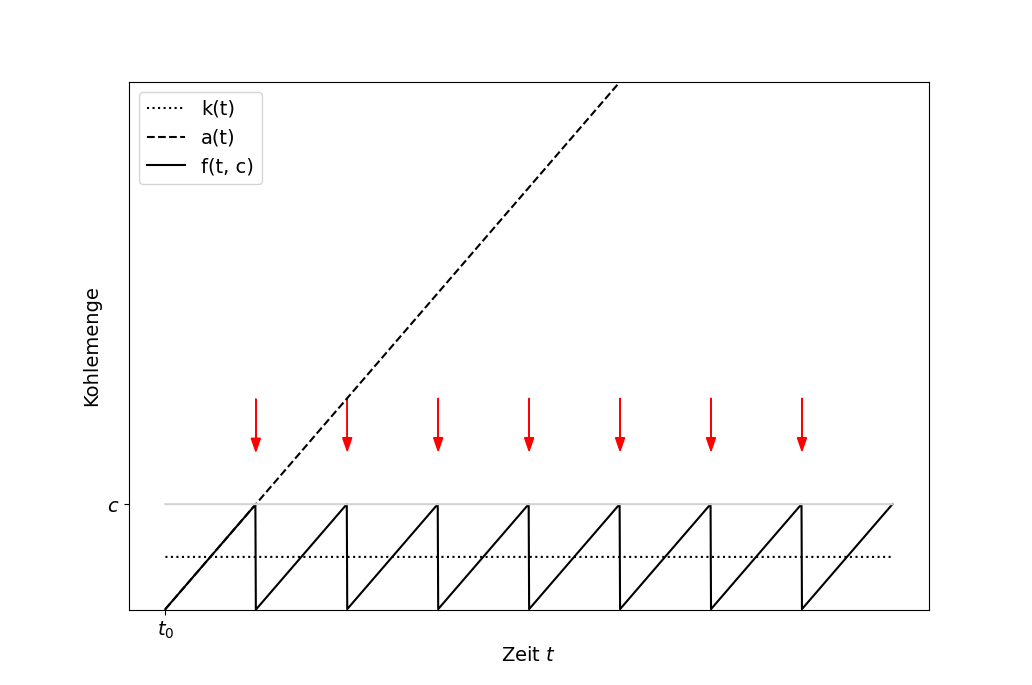
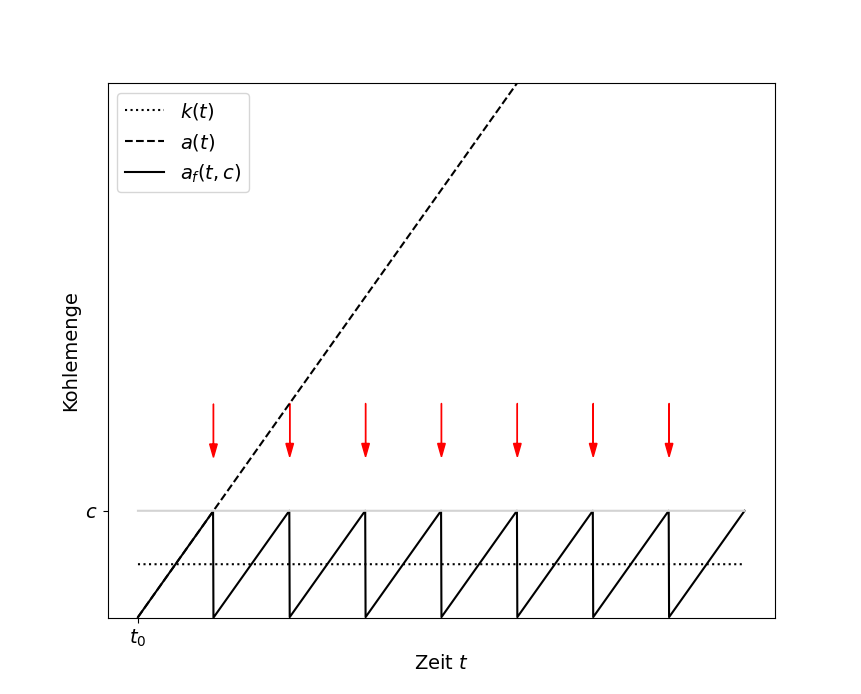
fixed remarks

diff --git a/content/2_grundlagen/2_2_abfahrtsplaene.tex b/content/2_grundlagen/2_2_abfahrtsplaene.tex
@@ -2,39 +2,39 @@
 
 Zur Abgrenzung von dem Begriff Fahrplan wird hier der Begriff \emph{Abfahrtsplan} eingeführt. Im Gegensatz zu einem Fahrplan enthält ein Abfahrtsplan lediglich folgende Informationen:
 \begin{itemize}
-    \item Die Zuggattung (Im Folgenden Zugtyp genannt)
+    \item Die Zuggattung (im Folgenden Zugtyp genannt)
     \item Die Abfahrtszeiten an der Starthaltestelle
-    \item Eine Liste der Zwischenhaltestellen und die Endhaltestelle jedoch keine Ankunfts- oder Abfahrtzeiten
+    \item Eine Liste der Zwischenhaltestellen und die Endhaltestelle, jedoch keine Ankunfts- oder Abfahrtzeiten
 \end{itemize}
-Da die Ankunfts- und Abfahrtzeiten Teil der Ergebnisse sind, die die Simulation produziert, können Fahrpläne nicht als Eingabe dienen. Daher verwenden wir Abfahrtspläne. Wie bereits in den Anforderungen angedeutet, werde drei verschiedene Arten von Abfahrtsplänen benötigt. Solche die zeitlich regelmäßige Zugfahrten beschreiben (Regelmäßige Abfahrtspläne), solche die Zugfahrten mit zufälligen Abfahrtszeiten beschreiben (Zufällige Abfahrtspläne) und solche, deren Abfahrtzeiten sich nach einem historischen Kohlebedarf richten (Bedarfsorientierte Abfahrtspläne). Jeder Abfahrtsplan besitzt eine Startzeit $t_s \in \mathbb{N}$ und eine Endzeit $t_e \in \mathbb{N}$, jeweils in Sekunden. $t_s$ beschreibt den Zeitpunkt in der Simulation, wenn der Abfahrtsplan aktiv wird, $t_e$ beschreibt den Zeitpunkt, wenn der Abfahrtsplan deaktiviert wird. Für jede Abfahrtszeit eines Zuges $t_a$ gilt also $t_s\leq t_a \leq t_e$. Die Details der drei Varianten werden im Folgenden erklärt.
+Da die Ankunfts- und Abfahrtzeiten Teil der Ergebnisse sind, die die Simulation produziert, können Fahrpläne nicht als Eingabe dienen. Daher verwenden wir Abfahrtspläne. Wie bereits in den Anforderungen angedeutet, werden drei verschiedene Arten von Abfahrtsplänen benötigt. Solche, die zeitlich regelmäßige Zugfahrten beschreiben (regelmäßige Abfahrtspläne), solche, die Zugfahrten mit zufälligen Abfahrtszeiten beschreiben (zufällige Abfahrtspläne) und solche, deren Abfahrtzeiten sich nach einem historischen Kohlebedarf richten (bedarfsorientierte Abfahrtspläne). Jeder Abfahrtsplan besitzt einen Startzeitpunkt $t_s \in \mathbb{N}$ und einen Endzeitpunkt $t_e \in \mathbb{N}$. Der Zeitpunkt $t_s$ beschreibt den Zeitpunkt in der Simulation, wenn der Abfahrtsplan aktiv wird, $t_e$ beschreibt den Zeitpunkt, wenn der Abfahrtsplan deaktiviert wird. Für jeden Abfahrtszeitpunkt eines Zuges $t_a$ gilt also $t_s\leq t_a \leq t_e$. Die Details der drei Varianten werden im Folgenden erklärt.
 
 \subsection{Regelmäßige Abfahrtspläne}
 
-Der regelmäßige Abfahrtsplan beschreibt die Abfahrt von Zügen in regelmäßigen zeitlichen Abständen und dient der Modellierung von klassischen fahrplan-basiertem Verhalten. Er besitzt eine Periode $p\in\mathbb{N}$ in Sekunden, welche die Größe des zeitlichen Abstandes angibt. Ein regelmäßiger Abfahrtsplan lässt somit Züge zu den Zeitpunkten $t_a=t_s+np$ mit $n\in\mathbb{N}$ abfahren.
+Der regelmäßige Abfahrtsplan beschreibt die Abfahrt von Zügen in regelmäßigen zeitlichen Abständen und dient der Modellierung von klassischen fahrplan-basiertem Verhalten. Er besitzt eine Periode $p\in\mathbb{N}$ in Sekunden, welche die Größe des zeitlichen Abstandes angibt. Ein regelmäßiger Abfahrtsplan lässt somit Züge zu den Zeitpunkten $t_a=t_s+np$ mit $n\in\mathbb{N}$, unter der Einschränkung $t_a\leq t_e$, abfahren.
 
 \subsection{Zufällige Abfahrtspläne}
 
-Der regelmäßige Abfahrtsplan beschreibt die Abfahrt von Zügen in zufälligen zeitlichen Abständen. Er dient damit der Modellierung von Zügen, die unplanmäßig oder unvorhergesehen kurzfristig fahren. Dieser Abfahrtsplan besitzt eine Wahrscheinlichkeitsverteilung $P$, die angibt, mit welcher Häufigkeit Züge in einer bestimmten Zeitspanne abfahren. $P$ folgt einer Gleichverteilung. Die Wahrscheinlichkeit für eine Abfahrt ist also zu jedem Zeitpunkt gleich.
+Der zufällige Abfahrtsplan beschreibt die Abfahrt von Zügen in zufälligen zeitlichen Abständen. Er dient damit der Modellierung von Zügen, die unplanmäßig oder unvorhergesehen kurzfristig fahren. Dieser Abfahrtsplan besitzt eine Wahrscheinlichkeitsverteilung P, die angibt, mit welcher Wahrscheinlichkeit zu jedem diskreten Zeitpunkt der Simulation ein Zug erzeugt wird. P folgt einer Gleichverteilung. Die Wahrscheinlichkeit für eine Abfahrt ist also zu jedem Zeitpunkt gleich.
 
 \subsection{Bedarfsorientierte Abfahrtspläne}
 
-Der bedarfsorientierte Abfahrtsplan beschreibt die Abfahrt von Zügen in zeitlichen Abständen, die sich nach einem historischen Kohlebedarf richten. Er dient damit der Modellierung von Kohlezügen. Dieser Abfahrtsplan besitzt eine Kohlebedarfsfunktion $k:\mathbb{N}\to\mathbb{R}$, die angibt, wie viel Kohle in Abhängigkeit von der Zeit $t$ benötigt wird. Sie ergibt sich aus den historischen Kohlebedarfsdaten. Weiterhin existieren der Zeitpunkt $t_0 \in \mathbb{N}$ in Sekunden, an welchem die historischen Daten beginnen und die Zeitspanne $t_r \in \mathbb{N}$ in Sekunden, welche die zeitliche Auflösung der Daten angibt. Weiterhin ist $c\in\mathbb{R}$ die Menge an Kohle, die ein Kohlezug transportieren kann. Zur Berechnung der Abfahrtszeiten wird zunächst die Funktion $a: \mathbb{N} \to \mathbb{R}$ aufgestellt, die den akkumulierten Kohlebedarf zum Zeitpunkt $t$ seit $t_0$ berechnet (siehe Formel \ref{eq:kohle-accu}). Dabei ist $n\in\mathbb{N}$ die Anzahl der Datenpunkte.
+Der bedarfsorientierte Abfahrtsplan beschreibt die Abfahrt von Zügen in zeitlichen Abständen, die sich nach einem historischen Kohlebedarf richten. Er dient damit der Modellierung von Kohlezügen. Dieser Abfahrtsplan besitzt eine Kohlebedarfsfunktion $k:\mathbb{N}\to\mathbb{R}$, die angibt, wie viel Kohle zu einem Zeitpunkt $t$ benötigt wird. Sie ergibt sich aus den historischen Kohlebedarfsdaten. Weiterhin existieren der Zeitpunkt $t_0 \in \mathbb{N}$, an welchem die historischen Daten beginnen und die Zeitspanne $t_r \in \mathbb{N}$, welche die zeitliche Auflösung der Daten angibt.Weiterhin ist $c\in\mathbb{R}$ die Menge an Kohle, die ein Kohlezug transportieren kann.  Sowohl $t_0$, als auch $t_r$ und $c$ sind konstant und ergeben sich aus domänenspezifischen Vorgaben. Zur Berechnung der Abfahrtszeiten wird zunächst die Funktion $a: \mathbb{N} \to \mathbb{R}$ aufgestellt, die den akkumulierten Kohlebedarf zum Zeitpunkt $t$ berechnet (siehe Formel \ref{eq:kohle-accu}). Dabei ist $n\in\mathbb{N}$ die Anzahl der Datenpunkte.
 
 \begin{equation}
-    a(t)=\sum_{i=0}^{n-1}  k(t_ri+t_0)\label{eq:kohle-accu}
+    a(t)=\sum_{i=0}^{(\frac{t-t_0}{t_r})} k(t_ri+t_0)\label{eq:kohle-accu}
 \end{equation}
 
-Der Abfahrtsplan soll nun stets dann Züge abfahren lassen, wenn die Menge an Kohle, die transportiert werden muss, die Menge erreicht, die ein Zug transportieren kann. Die transportierte Menge wird dann von der bisher akkumulierten Menge abgezogen. Formel \ref{eq:kohle-fmod} stellt das dar.
+Der Abfahrtsplan soll nun stets dann Züge abfahren lassen, wenn die Menge an Kohle, die transportiert werden muss, die Menge erreicht, die ein Zug transportieren kann. Die transportierte Menge wird dann von der bisher akkumulierten Menge abgezogen. Formel \ref{eq:kohle-fmod} stellt das dar.Die Funktion $fmod:(\mathbb{R},\mathbb{R}) \to \mathbb{R}$ ist dabei definiert als $(x,y)\mapsto x-ny$ mit $n\in\mathbb{Z}$, $x<0\Leftrightarrow fmod(x,y)<0$, $fmod(x,y)<|y|$ und $y\neq 0$. Intuitiv formuliert, gibt die Funktion den Rest der Division $\frac{x}{y}$ zurück.
 
 \begin{equation}
-    f(t, c)=fmod(a(t), c)\label{eq:kohle-fmod}
-\end{equation}\footnote{Die Funktion $fmod:(\mathbb{R},\mathbb{R}) \to \mathbb{R}$ ist definiert als $(x,y)\mapsto x-ny$ mit $n\in\mathbb{Z}$, $x<0\Leftrightarrow fmod(x,y)<0$ und $fmod(x,y)<|y|$. Intuitiv formuliert, gibt die Funktion den Rest der Division $\frac{x}{y}$ zurück.}
+    a_f(t, c)=fmod(a(t), c)\label{eq:kohle-fmod}
+\end{equation}
 
-Abbildung \ref{fig:demand-math} zeigt schematisch das Verhalten eines bedarfsorientierten Abfahrtsplans. $k(t)$ zeigt den (hier zur Vereinfachung konstanten) Kohlebedarf. $a(t)$ stellt den akkumulierten Kohlebedarf dar. $f(t,c)$ zeigt die akkumulierte Kohlemenge abzüglich der transportierten Kohlemenge. Die Abfahrtszeiten sind durch rote Pfeile markiert.
+Abbildung \ref{fig:demand-math} zeigt schematisch das Verhalten eines bedarfsorientierten Abfahrtsplans. Die Funktion $k$ zeigt den (hier zur Vereinfachung konstanten) Kohlebedarf. Die Funktion $a$ stellt den akkumulierten Kohlebedarf dar. Die Funktion $a_f$ zeigt die akkumulierte Kohlemenge abzüglich der transportierten Kohlemenge. Die Abfahrtszeiten sind durch rote Pfeile markiert.
 
 \begin{figure}[H]
 	\centering
 	\includegraphics[width=1.0\linewidth]{images/demand-math.png}
-	\caption{Schematisches Verhalten eines bedarfsorientierten Abfahrtsplans mit dem Kohlebedarf $k(t)$, dem akkumulierten Kohlebedarf $a(t)$ und der akkumulierten Kohlemenge abzüglich der transportierten Kohlemenge $f(t,c)$. Die roten Pfeile markieren die Abfahrtszeiten der Kohlezüge.}
+	\caption{Schematisches Verhalten eines bedarfsorientierten Abfahrtsplans mit dem Kohlebedarf $k(t)$, dem akkumulierten Kohlebedarf $a(t)$ und der akkumulierten Kohlemenge abzüglich der transportierten Kohlemenge $a_f(t,c)$. Die roten Pfeile markieren die Abfahrtszeiten der Kohlezüge.}
 	\label{fig:demand-math}
 \end{figure}

diff --git a/content/2_grundlagen/2_3_design_patterns/2_3_5_visitor.tex b/content/2_grundlagen/2_3_design_patterns/2_3_5_visitor.tex
@@ -7,7 +7,7 @@ Gelegentlich muss eine Operation auf einer Menge von Objekten durchgeführt, die
 
 \subsubsection*{Lösung}
 
-Der konkrete \emph{Visitor}\footnote{Die deutsche Übersetzung "Besucher" ist in diesem Kontext eher unüblich.} (\code{ConcreteVisitor}) realisiert die Visitor-Schnittstelle (\code{Visitor}), welche die Methode \code{visit} bereitstellt, wie in Abbildung \ref{fig:visitor-class} zu erkennen ist. Diese erlaubt es dem Visitor, ein Element (\code{Element}) zu "besuchen" und auf ihm eine Operation durchzuführen. Die Elemente "akzeptieren" den "Besuch" des Visitors mit Hilfe der Methode \code{accept}, welche als Argument den besuchenden Visitor erhält.
+Der konkrete \emph{Visitor}\footnote{Die deutsche Übersetzung ''Besucher'' ist in diesem Kontext eher unüblich.} (\code{ConcreteVisitor}) realisiert die Visitor-Schnittstelle (\code{Visitor}), welche die Methode \code{visit} bereitstellt, wie in Abbildung \ref{fig:visitor-class} zu erkennen ist. Diese erlaubt es dem Visitor, ein Element (\code{Element}) zu ''besuchen'' und auf ihm eine Operation durchzuführen. Die Elemente ''akzeptieren'' den ''Besuch'' des Visitors mit Hilfe der Methode \code{accept}, welche als Argument den besuchenden Visitor erhält.
 
 \begin{figure}[H]
 	\centering
@@ -16,7 +16,7 @@ Der konkrete \emph{Visitor}\footnote{Die deutsche Übersetzung "Besucher" ist in
 	\label{fig:visitor-class}
 \end{figure}
 
-Abbildung \ref{fig:visitor-seq} zeigt das Verhalten des Visitor-Patterns. Der Anwender\footnote{Der Anwender (\code{Client}) ist in der Regel eine weitere Klasse, welche den beschriebenen Mechanismus verwendet. Es handelt sich in aller Regel nicht um einen Menschen.} trägt dem Visitor auf, eine Operation auf einem Element oder einer Menge von Elementen durchzuführen (1). Der Visitor sendet daraufhin \code{visit} an alle Elemente, auf die er eine Referenz hält (2). Jedes Element ruft daraufhin eine \code{accept}-Methode auf dem Visitor auf (3). Zu beachten ist hierbei, dass es für jede Element-Klasse eine eigene Methode im Visitor gibt. Dies kann realisiert werden durch das Bereitstellen von Methoden mit unterschiedlichen, zu den aufrufenden Klassen korrespondierenden Namen oder durch Multimethoden. Multimethoden sind Methoden, welche je nach Typ der übergebenen Argumente unterschiedliche Implementierungen ausführen. Somit kann der Visitor nach Erhalt von \code{accept} die zum Typ des sendenden Elements passende Operation ausführen. Dieser Mechanismus nennt sich \emph{Double-Dispatch}.
+Abbildung \ref{fig:visitor-seq} zeigt das Verhalten des Visitor-Patterns. Der Anwender\footref{ftn:client} trägt dem Visitor auf, eine Operation auf einem Element oder einer Menge von Elementen durchzuführen (1). Der Visitor sendet daraufhin \code{visit} an alle Elemente, auf die er eine Referenz hält (2). Jedes Element ruft daraufhin eine \code{accept}-Methode auf dem Visitor auf (3). Zu beachten ist hierbei, dass es für jede Element-Klasse eine eigene Methode im Visitor gibt. Dies kann realisiert werden durch das Bereitstellen von Methoden mit unterschiedlichen, zu den aufrufenden Klassen korrespondierenden Namen oder durch Multimethoden. Multimethoden sind Methoden, welche je nach Typ der übergebenen Argumente unterschiedliche Implementierungen ausführen. Somit kann der Visitor nach Erhalt von \code{accept} die zum Typ des sendenden Elements passende Operation ausführen. Dieser Mechanismus nennt sich \emph{Double-Dispatch}.
 
 \begin{figure}[H]
 	\centering
@@ -26,6 +26,6 @@ Abbildung \ref{fig:visitor-seq} zeigt das Verhalten des Visitor-Patterns. Der An
 \end{figure}
 
 \subsubsection*{Konsequenzen}
-Durch die Kapselung der Operation in einem Visitor, ist es sehr einfach, neue Operationen hinzuzufügen. Es bedarf dazu lediglich eines weiteren Visitors. Außerdem kapselt ein Visitor die Menge an Operationen auf den Elementen. Zusammengehörige Operationen werden in einer Klasse gesammelt. Nicht zueinander gehörende Operationen befinden sich in unterschiedlichen Visitors. Ein weiterer Vorteil eines Visitors ist dessen Fähigkeit, während des "Besuchens" mehrerer Elemente Informationen über diese zu akkumulieren und im Anschluss gebündelt zu repräsentieren.
+Durch die Kapselung der Operation in einem Visitor, ist es sehr einfach, neue Operationen hinzuzufügen. Es bedarf dazu lediglich eines weiteren Visitors. Außerdem kapselt ein Visitor die Menge an Operationen auf den Elementen. Zusammengehörige Operationen werden in einer Klasse gesammelt. Nicht zueinander gehörende Operationen befinden sich in unterschiedlichen Visitors. Ein weiterer Vorteil eines Visitors ist dessen Fähigkeit, während des ''Besuchens'' mehrerer Elemente Informationen über diese zu akkumulieren und im Anschluss gebündelt zu repräsentieren.
 
 Der Visitor weist jedoch auch Nachteile auf. Zum einen ist es schwer, weitere konkrete Element-Klassen zu einem System hinzuzufügen, welches bereits eine Reihe an Visitors besitzt. Da ein Visitor für jeden Typ von Element eine Methode bereitstellen muss, kann ein weiteres Element einen erhöhten Implementierungsaufwand bedeuten. Das Visitor-Pattern sollte daher nur verwendet werden, wenn entweder die Menge an Elementklassen abgeschlossen oder die Menge an Visitor-Klassen übersichtlich ist. Weiterhin müssen die Elemente dem Visitor eine Schnittstelle bereitstellen, welche es dem Visitor ermöglicht, seine Operation ausführen zu können. Dies kann dazu führen, dass das Element einen großen Teil seines internen Zustands preisgeben muss, welcher bei nicht-Verwendung dieses Musters gekapselt geblieben wäre. \cite{gamma_design_1995}

diff --git a/content/2_grundlagen/2_3_design_patterns/2_3_3_observer.tex b/content/2_grundlagen/2_3_design_patterns/2_3_3_observer.tex
@@ -5,7 +5,7 @@
 
 Häufig müssen verschiedene Komponenten eines Systems synchron gehalten werden. Gleichzeitig soll aber auch eine enge Kopplung dieser Komponenten vermieden werden. Es wird eine $1$:$n$-Beziehung zwischen den Objekten benötigt, wobei $n$ Objekte von einem Objekt abhängen. Wenn das eine Objekt seinen Zustand ändert, so sollen alle abhängigen Objekte benachrichtigt werden, sodass auch sie ihren Zustand aktualisieren können. Ein naiver Lösungsansatz wäre, jedem abhängigen Objekt eine Referenz auf das Objekt zu geben, von welchem es abhängt. Die Objekte könnten dann in regelmäßigen Abständen prüfen, ob eine Zustandsänderung stattgefunden hat (\emph{Polling}). Dieser Ansatz weist jedoch nicht nur eine hohe Kopplung auf, er ist auch wenig performant. Auch wenn keine Zustandsänderung stattgefunden hat, wird auf diese geprüft. Der Aufwand für diese Prüfung steigt dabei linear mit der Anzahl der beteiligten Objekte.
 
-Das \emph{Observer-Pattern} kann Anwendung finden, wenn es zwei voneinander getrennte Konzepte gibt und eines von dem anderen abhängig ist. Die Abhängigkeit kann modelliert werden, ohne die Objekte stark zu koppeln. Weiterhin ist es möglich, die Anzahl der abhängigen Objekte variablen zu halten. \cite{gamma_design_1995}
+Das \emph{Observer-Pattern} kann Anwendung finden, wenn es zwei voneinander getrennte Konzepte gibt und eines von dem anderen abhängig ist. Die Abhängigkeit muss modelliert werden können, ohne die Objekte stark zu koppeln. Weiterhin soll es möglich sein, die Anzahl der abhängigen Objekte variablen zu halten. \cite{gamma_design_1995}
 
 \subsubsection*{Lösung}
 
@@ -18,7 +18,7 @@ Das Observer-Pattern besteht aus einem Sender (\code{Publisher}) und mehreren Em
 	\label{fig:observer-class}
 \end{figure}
 
-Abbildung \ref{fig:observer-seq} zeigt, dass der Anwender (\code{Client})\footnote{Der Anwender (\code{Client}) ist in der Regel eine weitere Klasse, welche den beschriebenen Mechanismus verwendet. Es handelt sich in aller Regel nicht um einen Menschen.} den Zustand des Sender durch Senden von \code{updateSate} verändern kann (1). Der Sender sendet sich draufhin selbst \code{notify} (2) und beginnt über seine Liste von Empfängern zu iterieren. Jedem Empfänger sendet er dann \code{update} (3, 5) und übergibt den notwendigen Kontext, sodass der Empfänger seinen Zustand entsprechend aktualisieren kann.
+Abbildung \ref{fig:observer-seq} zeigt, dass der Anwender (\code{Client})\footref{ftn:client} den Zustand des Sender durch Senden von \code{updateSate} verändern kann (1). Der Sender sendet sich draufhin selbst \code{notify} (2) und beginnt über seine Liste von Empfängern zu iterieren. Jedem Empfänger sendet er dann \code{update} (3, 5) und übergibt den notwendigen Kontext, sodass der Empfänger seinen Zustand entsprechend aktualisieren kann.
 
 \begin{figure}[H]
 	\centering
@@ -40,6 +40,6 @@ class Publisher
 
 \subsubsection*{Konsequenzen}
 
-Das Observer-Pattern bietet eine Reihe von Vorteilen. Durch Separation von Sender und Empfänger und durch die Abstraktion der Empfänger-Schnittstelle wird eine lose Kopplung der beiden erreicht. Diese lose Kopplung ermöglicht es, sowohl den Sender, als auch die Empfänger beliebig auszutauschen. Weiterhin können sich der Sender und die Empfänger auf unterschiedlichen Abstraktionsniveaus befinden. Ein Sender auf einem niedrigen Level kann einen Empfänger auf einem hohen Level benachrichtigen. Wären Empfänger und Sender nicht getrennt, so wäre dafür ein Abstraktionshierarchie-übergreifendes Objekt notwendig, welches die Trennung der Abstraktionsschichten beeinträchtigen würde. Ein weiterer Vorteil ist die dynamische Anzahl der Empfänger, mit denen ein Sender interagieren kann. So kann der Anwender über den Sender eine beliebige Zahl an Empfängern erreichen.
+Durch Separation von Sender und Empfänger und durch die Abstraktion der Empfänger-Schnittstelle wird eine lose Kopplung der beiden erreicht. Diese lose Kopplung ermöglicht es, sowohl den Sender, als auch die Empfänger beliebig auszutauschen. Weiterhin können sich der Sender und die Empfänger auf unterschiedlichen Abstraktionsniveaus befinden. Ein Sender auf einem niedrigen Level kann einen Empfänger auf einem hohen Level benachrichtigen. Wären Empfänger und Sender nicht getrennt, so wäre dafür ein Objekt notwendig, welches mehrere Abrstraktionsebenen umfasst, wodurch die Trennung der Abstraktionsschichten beeinträchtigen würde. Ein weiterer Vorteil ist die dynamische Anzahl der Empfänger, mit denen ein Sender interagieren kann. So kann der Anwender über den Sender eine beliebige Zahl an Empfängern erreichen.
 
 Ein Nachteil des Observer-Patterns ist, dass der Sender stets alle seine Empfänger benachrichtigt. Es kann vorkommen, dass nur eine Teilmenge der Empfänger die Benachrichtigung benötigt, was in unnötigen Methodenaufrufen resultiert. \cite{gamma_design_1995}

diff --git a/content/1_einleitung/1_1_strukturwandel.tex b/content/1_einleitung/1_1_strukturwandel.tex
@@ -1,5 +1,5 @@
 \section{Strukturwandel in der Lausitz}
 
-Die Lausitz, eine Region in Südbrandenburg, steht vor in naher Zukunft vor tiefgreifenden Veränderungen. Einer der wichtigsten Wirtschaftsfaktoren in der Region ist der Abbau von Braunkohle durch die LEAG AG in mehreren Tagebauen. Braunkohle ist ein wichtiger Energieträger für die Strom- und Fernwärmeproduktion in der Lausitz. Im Rahmen der Energiewende soll jedoch die Energieproduktion aus Braunkohle bis zum Jahr 2038 zugunsten von erneuerbaren Energiequellen vollständig eingestellt werden. Dies wird die Region (und auch ganz Deutschland) vor eine Vielzahl von finanziellen, wirtschaftlichen und gesellschaftlichen Herausforderungen stellen. Es müssen neue Wirtschaftskonzepte für die Region entwickelt werden, um diesen Strukturwandel zu bewältigen. Dazu zählt zum einen eine Alternative für den Bergbau zu finden, um den vorhandenen Arbeitnehmern weiterhin Arbeitsplätze zur Verfügung stellen zu können. Die Region zum anderen den Tourismus stark ausbauen durch Nachnutzung der entstehenden Flächen als Erholungsgebiet. Um das erreichen zu können ist es notwendig, die Tagebaulandschaft zu renaturieren\cite{btu_flexidug_2022} und die notwendigen Flächen und Infrastrukturen zu erschließen. Dieser Strukturwandel stellt für die Lausitz den größten Wandel seit dem Strukturbruch im Jahr 1990 im Rahmen der Wiedervereinigung dar.
+Die Lausitz, eine Region in Südbrandenburg, steht in naher Zukunft vor tiefgreifenden Veränderungen. Einer der wichtigsten Wirtschaftsfaktoren in der Region ist der Abbau von Braunkohle durch die LEAG AG in mehreren Tagebauen. Braunkohle ist ein wichtiger Energieträger für die Strom- und Fernwärmeproduktion in der Lausitz. Im Rahmen der Energiewende soll jedoch die Energieproduktion aus Braunkohle bis zum Jahr 2038 zugunsten von erneuerbaren Energiequellen vollständig eingestellt werden. Dies wird die Region (und auch ganz Deutschland) vor eine Vielzahl von finanziellen, wirtschaftlichen und gesellschaftlichen Herausforderungen stellen. Es müssen neue Wirtschaftskonzepte für die Region entwickelt werden, um diesen Strukturwandel zu bewältigen. Dazu zählt zum einen eine Alternative für den Bergbau zu finden, um den vorhandenen Arbeitnehmern weiterhin Arbeitsplätze zur Verfügung stellen zu können. Zum anderen soll der Tourismus in der Region stark ausgebaut werden, durch die Nachnutzung der entstehenden Flächen als Erholungsgebiet. Um das erreichen zu können ist es notwendig, die Tagebaulandschaft zu renaturieren\cite{btu_flexidug_2022} und die notwendigen Flächen und Infrastrukturen zu erschließen. Dieser Strukturwandel stellt für die Lausitz den größten Wandel seit dem Strukturbruch im Jahr 1990 im Rahmen der Wiedervereinigung dar.
 
-Es ist daher notwendig, die entsprechenden Maßnahmen ausreichend zu planen und mit den jeweiligen Interessenvertretern abzustimmen. Mit einem Teil dieser Planung beschäftigt sich das Projekt FlexiDug. Es erkundet Nachnutzungsmöglichkeiten der Schieneninfrastruktur, welche bisher ausschließlich dem Transport der Braunkohle diente und aktuell in privater Hand liegt.
+Es ist daher notwendig, die entsprechenden Maßnahmen ausreichend zu planen und mit den jeweiligen Interessenvertretern abzustimmen. Mit einem Teil dieser Planung beschäftigt sich das Projekt FlexiDug, welches in den folgenden Abschnitten genauer beschrieben wird. Es erkundet Nachnutzungsmöglichkeiten der Schieneninfrastruktur, welche bisher ausschließlich dem Transport der Braunkohle diente und aktuell in privater Hand liegt.

diff --git a/content/2_grundlagen/2_4_orm.tex b/content/2_grundlagen/2_4_orm.tex
@@ -1,10 +1,10 @@
 \section{Object-Relational-Mapping}
 
 \subsection{Objekt-relationale Systeme}
-In der Praxis haben sich für die Beschreibung von Datenbanken und Software vor Allem zwei verschiedene Paradigmen etabliert. Datenbanken, welche der persistenten Speicherung von Daten dienen, folgen häufig dem relationalen Paradigma. Softwaresysteme hingegen, deren Verhalten und Struktur durch Programmiersprachen beschrieben werden, wird meist objektorientiert modelliert. Da diese Technologien, die Datenbanken und die Softwaresystemen, breite Verwendung finden, ist es unumgänglich, dass beide Teile eines Systems sind. Solche Systeme nennt man objekt-relationale Systeme. \cite{ireland_understanding_2009}
+In der Praxis haben sich für die Beschreibung von Datenbanken und Software vor allem zwei verschiedene Paradigmen etabliert. Datenbanken, welche der persistenten Speicherung von Daten dienen, folgen häufig dem relationalen Paradigma. Softwaresysteme hingegen, deren Verhalten und Struktur durch Programmiersprachen beschrieben werden, werden meist objektorientiert modelliert. Da diese beiden Technologien, breite Verwendung finden, ist ihre Kombination innerhalb desselben Systems in der häufig unumgänglich. Solche Systeme nennt man objekt-relationale Systeme. \cite{ireland_understanding_2009}
 
 \subsection{Object-Relational Mapper (ORM)}
-Die Aufgabe eines ORM ist es, die Persistenz von Objekten zu gewährleisten \cite{noauthor_what_2023} und dabei gleichzeitig den Programmierer von der darunterliegenden relationalen Datenbank abzuschirmen. So kann der Programmierer, welcher eine objektorientierte Programmiersprache verwendet, vollständig in einem objektorientierten Kontext arbeiten. Er ist nicht mehr gezwungen, direkt mit der relationalen Datenbank über SQL zu kommunizieren. Das ORM muss dabei eine bidirektionale Abbildung zwischen dem objektorientierten und dem relationalen Modell bereitstellen. Dabei muss es sicherstellen, dass sowohl die Struktur, als auch die Mechanismen beider Paradigmen korrekt aufeinander abgebildet werden. Die Abbildung der Struktur beschäftigt sich mit der Zuordnung von Tabellen zu Klassen. Die Abbildung der Mechanismen behandelt unter Anderem die Navigation durch Objektreferenzen und das Schreiben und Lesen von Daten. \cite{ireland_understanding_2009}
+Die Aufgabe eines ORM ist es, die Persistenz von Objekten zu gewährleisten \cite{noauthor_what_2023} und dabei gleichzeitig den Programmierer von der darunterliegenden relationalen Datenbank abzuschirmen. So kann der Programmierer, welcher eine objektorientierte Programmiersprache verwendet, vollständig in einem objektorientierten Kontext arbeiten. Er ist nicht mehr gezwungen, direkt mit der relationalen Datenbank über SQL zu kommunizieren. Das ORM muss dabei eine bidirektionale Abbildung zwischen dem objektorientierten und dem relationalen Modell bereitstellen. Dabei muss es sicherstellen, dass sowohl die Struktur, als auch die Mechanismen beider Paradigmen korrekt aufeinander abgebildet werden. Die Abbildung der Struktur beschäftigt sich mit der Zuordnung von Tabellen zu Klassen. Die Abbildung der Mechanismen behandelt unter anderem die Navigation durch Objektreferenzen und das Schreiben und Lesen von Daten. \cite{ireland_understanding_2009}
 
 \subsection{Hindernisse}
 Die Unterschiede zwischen beiden Paradigmen rufen eine Reihe von Problemen hervor, welche das ORM lösen muss. Diese Probleme sind nach \cite{ireland_understanding_2009} die folgenden:

diff --git a/content/2_grundlagen/2_3_design_patterns/2_3_4_mediator.tex b/content/2_grundlagen/2_3_design_patterns/2_3_4_mediator.tex
@@ -3,11 +3,11 @@
 
 \subsubsection*{Problembeschreibung}
 
-Große Softwareprojekte bestehen meist aus einer enormen Anzahl von Klassen bzw. Objekten, welche miteinander interagieren. Ziel ist es stets, die Kopplung zwischen diesen Komponenten so gering wie möglich zu halten. Komplexe Interaktionsmuster zwischen diesen Objekten lassen sich nicht immer verhindern, da sie die inhärente Komplexität des modellierten Problems wiederspiegeln. In diesem Fall ist eine Lösung notwending, die diese Komplexität kapselt. Das \emph{Mediator-Pattern} ist in der Lage, solche Fälle von komplexer Interaktion zu vereinfachen. \cite{gamma_design_1995}
+Große Softwareprojekte bestehen meist aus einer enormen Anzahl von Klassen bzw. Objekten, welche miteinander interagieren. Ziel ist es stets, die Kopplung zwischen diesen Komponenten so gering wie möglich zu halten, um die Übersichtlichkeit des Codes zu bewahren. Komplexe Interaktionsmuster zwischen diesen Objekten lassen sich nicht immer verhindern, da sie die inhärente Komplexität des modellierten Problems wiederspiegeln. In diesem Fall ist eine Lösung notwending, die diese Komplexität kapselt. Das \emph{Mediator-Pattern} ist in der Lage, solche Fälle von komplexer Interaktion zu vereinfachen. \cite{gamma_design_1995}
 
 \subsubsection*{Lösung}
 
-Der konkrete Mediator (\code{ConcreteMediator}) implementiert die Mediator-Schnittstelle (\code{Mediator}), welches die Methode \code{notify} bereitstellt, um Benachrichtigungen der einzelnen Komponenten (\code{Component}) entgegenzunehmen. Jede Komponente besitzt eine Referenz auf den Mediator, um \code{notify} an ihn senden zu können. Dabei übergibt die Komponente sich selbst, um dem Mediator den Kontext der Benachrichtigung bereitzustellen. In Abhängigkeit des übergebenen Senders und dessen Zustand, führt der Mediator eine (komplexe) Logik aus, welche vollständig innerhalb des Mediators gekapselt ist. Der Mediator hält ebenso Referenzen auf alle Komponenten, die er zu beeinflussen in der Lage sein soll. Die gekapselte Logik kann somit die Interfaces der Komponenten verwenden, um diese zu beeinflussen. Dadurch findet eine indirekte Beeinflussung von Komponenten durch andere Komponenten über den Mediator statt. Das Klassendiagramm dieser Architektur ist in Abbildung \ref{fig:mediator-class} dargestellt.
+Der konkrete Mediator (\code{ConcreteMediator}) implementiert die Mediator-Schnittstelle (\code{Mediator}), welche die Methode \code{notify} bereitstellt, um Benachrichtigungen der einzelnen Komponenten (\code{Component}) entgegenzunehmen. Jede Komponente besitzt eine Referenz auf den Mediator, um \code{notify} an ihn senden zu können. Dabei übergibt die Komponente sich selbst, um dem Mediator den Kontext der Benachrichtigung bereitzustellen. In Abhängigkeit von dem übergebenen Sender und dessen Zustand, führt der Mediator eine (komplexe) Logik aus, welche vollständig innerhalb des Mediators gekapselt ist. Der Mediator hält ebenso Referenzen auf alle Komponenten, die er zu beeinflussen in der Lage sein soll. Die gekapselte Logik kann somit die Interfaces der Komponenten verwenden, um diese zu beeinflussen. Dadurch findet eine indirekte Beeinflussung von Komponenten durch andere Komponenten über den Mediator statt. Das Klassendiagramm dieser Architektur ist in Abbildung \ref{fig:mediator-class} dargestellt.
 
 \begin{figure}[H]
 	\centering

diff --git a/thesis.tex b/thesis.tex
@@ -38,7 +38,7 @@
 
 	% \newpage
 	\chapter{Einleitung}
-	Dieses Projekt beschäftigt sich mit der Entwicklung einer Simulationsumgebung für den Zugverkehr. Ziel ist es, den gemeinsamen Verkehr von Personen- und Güterzügen auf dem Schienennetz der LEAG zu simulieren, welches bisher ausschließlich dem Transport von Braunkohle dient. In dieser Arbeit wird die Erzeugung von Zügen innerhalb der Simulation genauer beleuchtet. In der Einleitung werden zunächst die Motivation und die aktuelle Situtaion vorgestellt. Außerdem wird ein Überblick über das Gesamtprojekt und die Anfrderungen gegeben. Der Grundlagenteil klärt grundlegende Begriffe und Konzpte. Im Hauptteil wird die Umsetzung der Anforderungen beschrieben. Einen grpßen Teil davon nimmt die Diskussion der entworfenen Softwarearchitektur ein. Abschließend werden die Ergebnisse der Arbeit diskutiert und ein Ausblick auf mögliche Erweiterungen gegeben.\\
+	Dieses Projekt beschäftigt sich mit der Entwicklung einer Simulationsumgebung für den Zugverkehr. Die Arbeit an diesem Projekt fand im Team statt. Ziel ist es, den gemeinsamen Verkehr von Personen- und Güterzügen auf einem Schienennetz zu simulieren, welches bisher ausschließlich dem Transport von Braunkohle dient. In dieser Arbeit wird die Erzeugung von Zügen innerhalb der Simulation genauer beleuchtet. In der Einleitung werden zunächst die Motivation und die aktuelle Situation vorgestellt. Außerdem wird ein Überblick über das Gesamtprojekt, die Teamarbeit innerhalb des projektes und die Anforderungen gegeben. Der Grundlagenteil klärt grundlegende Begriffe und Konzepte. Im Hauptteil wird die Umsetzung der Anforderungen beschrieben. Einen großen Teil davon nimmt die Diskussion der entworfenen Softwarearchitektur ein. Abschließend werden die Ergebnisse der Arbeit diskutiert und ein Ausblick auf mögliche Erweiterungen gegeben.\\
 	\\
 	\input{content/1_einleitung/1_1_strukturwandel}
 	\input{content/1_einleitung/1_2_schienennetz}
@@ -48,7 +48,7 @@
 
 	% \newpage
 	\chapter{Grundlagen}
-	Der Grundlagenteil klärt grundlegende Begriffe und Konzpte. Zunächst werden die Begriffe Fahrplan und Abfahrtsplan definiert und voneinander abgegrenzt. Anschließend werden die im Entwurf verwendeten Entwurfsmuster erläutert. Im Anschluss werden das Konzept der Objekt-Relationen-Abbildung (ORM) die Datenschnittstelle der Bundesnetzagentur für Stromproduktionsdaten vorgestellt.\\
+	Der Grundlagenteil klärt grundlegende Begriffe und Konzpte. Zunächst werden die Begriffe Fahrplan und Abfahrtsplan definiert und voneinander abgegrenzt. Anschließend werden die in der Softwarearchitektur verwendeten Entwurfsmuster\footnote{auch engl. \emph{Design Pattern}} erläutert. Im Anschluss werden das Konzept der Objekt-Relationen-Abbildung (ORM\footnote{object relational mapping}) die Datenschnittstelle der Bundesnetzagentur für Stromproduktionsdaten vorgestellt.\\
 	\\
 	\input{content/2_grundlagen/2_1_fahrplaene}
 	\input{content/2_grundlagen/2_2_abfahrtsplaene}

diff --git a/content/1_einleitung/1_3_gemeinsame_nutzung.tex b/content/1_einleitung/1_3_gemeinsame_nutzung.tex
@@ -1,3 +1,3 @@
 \section{FlexiDug - Gemeinsam Nutzung durch Personen- und Güterzüge}
 
-Nach dem Kohleausstieg würde das Potential des Schienennetzen ohne ein Nachnutzungskonzept ungenutzt bleiben\cite{rbb_hpi_2022}. Das Projekt FlexiDug (Flexible, digitale Systeme für den schienengebundenen Verkehr in Wachstumsregionen) beschäftigt sich damit, Nachnutzungsperspektiven zu erstellen und ein solches Konzept bis zum Jahr 2024 zu erstellen \cite{hasso_plattner_institut_flexidug_2022}. Teil dieses Projektes ist die Analyse von Infrastrukturen, die Erstellung eines digitalen Zwilling des Schienennetzes, die Entwicklung von Sensornetzen zur Infrastrukturüberwachung und die Erforschung digitaler Leit- und Sicherungstechnik. All dies würde erst einen Personenverkehr auf diesem Schienennetz ermöglichen\cite{rbb_hpi_2022}. Das große Ziel des Projektes ist der ''Ergründen von Perspektiven''\cite{rbb_hpi_2022} für die Nachnutzung der Infrastruktur und die Erforschung der Möglichkeit einer sowie einer Nachnutzung, als auch einer gemeinsamen Nutzung durch Personen- und Güterzüge. Dieses Projekt und diese Arbeit leisten einen kleinen Beitrag durch die Erweiterung des Verkehrssimulators SUMO um ein realistischeres Modell des Zugverkehrs. Damit ermöglichen wir die Simulation von gleichzeitig fahrenden Personen- und Güterzügen auf dem Schienennetz der LEAG.
+Nach dem Kohleausstieg würde das Potential des Schienennetzes ohne ein Nachnutzungskonzept ungenutzt bleiben\cite{rbb_hpi_2022}. Das Projekt FlexiDug (Flexible, digitale Systeme für den schienengebundenen Verkehr in Wachstumsregionen) beschäftigt sich damit, Nachnutzungsperspektiven zu erstellen und ein solches Konzept bis zum Jahr 2024 zu erstellen \cite{hasso_plattner_institut_flexidug_2022}. Teil dieses Projektes sind die Analyse von Infrastrukturen, die Erstellung eines digitalen Zwilling des Schienennetzes, die Entwicklung von Sensornetzen zur Infrastrukturüberwachung und die Erforschung digitaler Leit- und Sicherungstechnik. All dies würde erst einen Personenverkehr auf diesem Schienennetz ermöglichen. Das große Ziel des Projektes ist der ''Ergründen von Perspektiven'' für die Nachnutzung der Infrastruktur und die Erforschung der Möglichkeit einer sowie einer Nachnutzung, als auch einer gemeinsamen Nutzung durch Personen- und Güterzüge.\cite{rbb_hpi_2022} Diese Arbeit im Kontext des gesamten Softwareprojektes leistet einen Beitrag durch die Erweiterung des Verkehrssimulators SUMO um ein realistischeres Modell des Zugverkehrs. Damit wird die Simulation von gleichzeitig fahrenden Personen- und Güterzügen auf dem Schienennetz der LEAG ermöglicht.

diff --git a/content/1_einleitung/1_5_team.tex b/content/1_einleitung/1_5_team.tex
@@ -13,7 +13,7 @@ Das Team besteht aus sechs Personen. Entsprechend wurde das Softwareprojekt in s
 		\textbf{Arbeitspaket} & \textbf{Titel der Arbeit} & \textbf{Autor} \\
 		\hline
 		\hline
-		die \emph{REST-API} & \citetitle{kamp_architektur_2023}\cite{kamp_architektur_2023} & \citeauthor{kamp_architektur_2023} \\
+		\emph{REST-API} & \citetitle{kamp_architektur_2023}\cite{kamp_architektur_2023} & \citeauthor{kamp_architektur_2023} \\
 		\hline
 		die Fehlerinjektion & \citetitle{persitzky_fehlerinjektion_2023}\cite{persitzky_fehlerinjektion_2023} & \citeauthor{persitzky_fehlerinjektion_2023} \\
 		\hline
@@ -32,4 +32,4 @@ Die REST-API stellt eine Benutzerschnittstelle für die von uns entwickelte Simu
 
 \subsection{Die Teamarbeit}
 
-Um unser Projekt effizient und flexibel zu gestalten, haben wir agile Arbeitsmethoden angewendet. Dabei haben wir uns auf selbstbestimmtes Arbeiten und Gleichberechtigung aller Teammitglieder fokussiert. Um unsere Arbeit zu organisieren und zu koordinieren, haben wir verschiedene Werkzeuge genutzt. Das wichtigste davon war das GitHub-Repositorium, das uns die Quelltextverwaltung ermöglicht hat. Außerdem haben wir über GitHub ein Wiki als Wissenssammlung und ein Kanban-Board für die Verwaltung unserer Aufgaben erstellt. Das Kanban-Board hat uns geholfen, unsere Aufgaben zu visualisieren und transparent zu machen. Wir haben auch die Anzahl der gleichzeitig zu bearbeitenden Aufgaben begrenzt und unsere Arbeitsabläufe iterativ verbessert. Die Kommunikation haben wir durch das Werkzeug Slack und durch tägliche, morgendliche Meetings gewährleistet.
+Um unser Projekt effizient und flexibel zu gestalten, haben wir agile Arbeitsmethoden angewendet. Dabei haben wir uns auf selbstbestimmtes Arbeiten und Gleichberechtigung aller Teammitglieder fokussiert. Um unsere Arbeit zu organisieren und zu koordinieren, haben wir verschiedene Werkzeuge genutzt. Das wichtigste davon war das GitHub-Repositorium, das uns die Quelltextverwaltung ermöglicht hat. Außerdem haben wir über GitHub ein Wiki als Wissenssammlung und ein Kanban-Board für die Verwaltung unserer Aufgaben erstellt. Das Kanban-Board hat uns geholfen, unsere Aufgaben zu visualisieren und transparent zu machen. Wir haben auch die Anzahl der gleichzeitig zu bearbeitenden Aufgaben begrenzt und unsere Arbeitsabläufe iterativ verbessert. Die Kommunikation haben wir durch die Kollaborationsplattform Slack und durch tägliche, morgendliche Meetings gewährleistet.

diff --git a/content/2_grundlagen/2_1_fahrplaene.tex b/content/2_grundlagen/2_1_fahrplaene.tex
@@ -3,9 +3,9 @@
 Ein Fahrplan ist die zeitliche und räumliche Festlegung von Zugfahrten auf einem Schienennetz \cite{groger_simulation_2002}. Er enthält unter anderem
 \begin{itemize}
     \item die Zuggattung,
-    \item die Verkehrstage\footnote{die Wochentage, an denen ein Verkehr stattfindet},
+    \item die Verkehrstage,
     \item die Strecke,
     \item die Ankunfts- Durchfahr- und Abfahrzeiten in allen Halte- und Betriebsstellen,
     \item und die zulässigen Geschwindigkeiten in den einzelnen Streckenabschnitten.
 \end{itemize}
-Der Fahrplan dient einer Reihe von Zwecken. Zum einen hilft der Fahrplan dabei die vorhandene Infrastruktur auf die verkehrenden Züge zu verteilen und den Verkehr somit zu koordinieren. Damit können mögliche Konflikte bereits bei der Erstellung des Fahrplans lokalisiert werden. Weiterhin dient der Fahrplan der Information des Kunden und hilft diesem bei der Entscheidungsfindung bezüglich der Wahl der geeigneten Verkehrsmittel. Außerdem stellt der Fahrplan Informationen zum Betriebsablauf bereit. Er dient den Triebfahrzeugführern und Fahrdienstleitern als Grundlage für ihre Betriebsplanung. Zusätzlich ermöglicht ein Fahrplan das Treffen von Aussagen für die Leistungsfähigkeit des Zugverkehrs. \cite{groger_simulation_2002}
+Der Fahrplan dient einer Reihe von Zwecken. Zum einen hilft der Fahrplan dabei, die vorhandene Infrastruktur auf die verkehrenden Züge zu verteilen und den Verkehr somit zu koordinieren. Damit können mögliche Konflikte bereits bei der Erstellung des Fahrplans lokalisiert werden. Weiterhin dient der Fahrplan als Informationsquelle für den Kunden und hilft diesem bei der Entscheidungsfindung bezüglich der Wahl der geeigneten Verkehrsmittel. Er dient den Triebfahrzeugführern und Fahrdienstleitern als Grundlage für ihre Betriebsplanung. Zusätzlich ermöglicht ein Fahrplan das Treffen von Aussagen für die Leistungsfähigkeit des Zugverkehrs. \cite{groger_simulation_2002}

diff --git a/content/2_grundlagen/2_3_design_patterns/2_3_2_template_method.tex b/content/2_grundlagen/2_3_design_patterns/2_3_2_template_method.tex
@@ -29,7 +29,7 @@ class AbstractClass:
 
 \subsubsection*{Konsequenzen}
 
-Template-Methods sind ein Mechanismus, welcher die Wiederverwendung von Code ermöglicht und kann somit der Codeduplikation entgegen wirken. Anstatt Abwandlungen von Algorithmen von Grund auf neu zu implementieren, ist es möglich, sie aus bestehenden Komponenten zusammenzusetzen und je nach Bedarf neuen Code hinzuzufügen. Das Muster der Template-Method weist eine umgekehrte Kontrollstruktur auf. Anstatt dass eine Klasse Methoden ihrer Superklasse aufruft, delegiert die Template-Method die Verantwortlichkeit für die einzelnen Teile des Algorithmus an sie Subklassen.
+Template-Methods sind ein Mechanismus, welcher die Wiederverwendung von Code ermöglicht und kann somit der Codeduplikation entgegen wirken. Anstatt Abwandlungen von Algorithmen von Grund auf neu zu implementieren, ist es möglich, sie aus bestehenden Komponenten zusammenzusetzen und je nach Bedarf neuen Code hinzuzufügen. Das Muster der Template-Method weist eine umgekehrte Kontrollstruktur auf. Anstatt dass eine Klasse Methoden ihrer Superklasse aufruft, delegiert die Template-Method die Verantwortlichkeit für die einzelnen Teile des Algorithmus an ihre Subklassen.
 
 Bei der Verwendung der Template-Method ist jedoch zu beachten, wie die einzelnen Methoden zu verwenden sind. Diese lassen sich grob in zwei Arten einteilen, die \emph{Hook}\footnote{Schnittstelle zur Integration fremden Codes in ein bestehendes System}-Methoden und die abstrakten Methoden. Während die Hook-Methoden eine Standard-Implementierung in der abstrakten Basisklasse bereitstellen, ist dies bei den abstrakten Methoden nicht der Fall. Entsprechend müssen die abstrakten Methoden zwingend von einer konkreten Subklasse implementiert werden. Bei den Hook-Methoden ist das optional.
 
